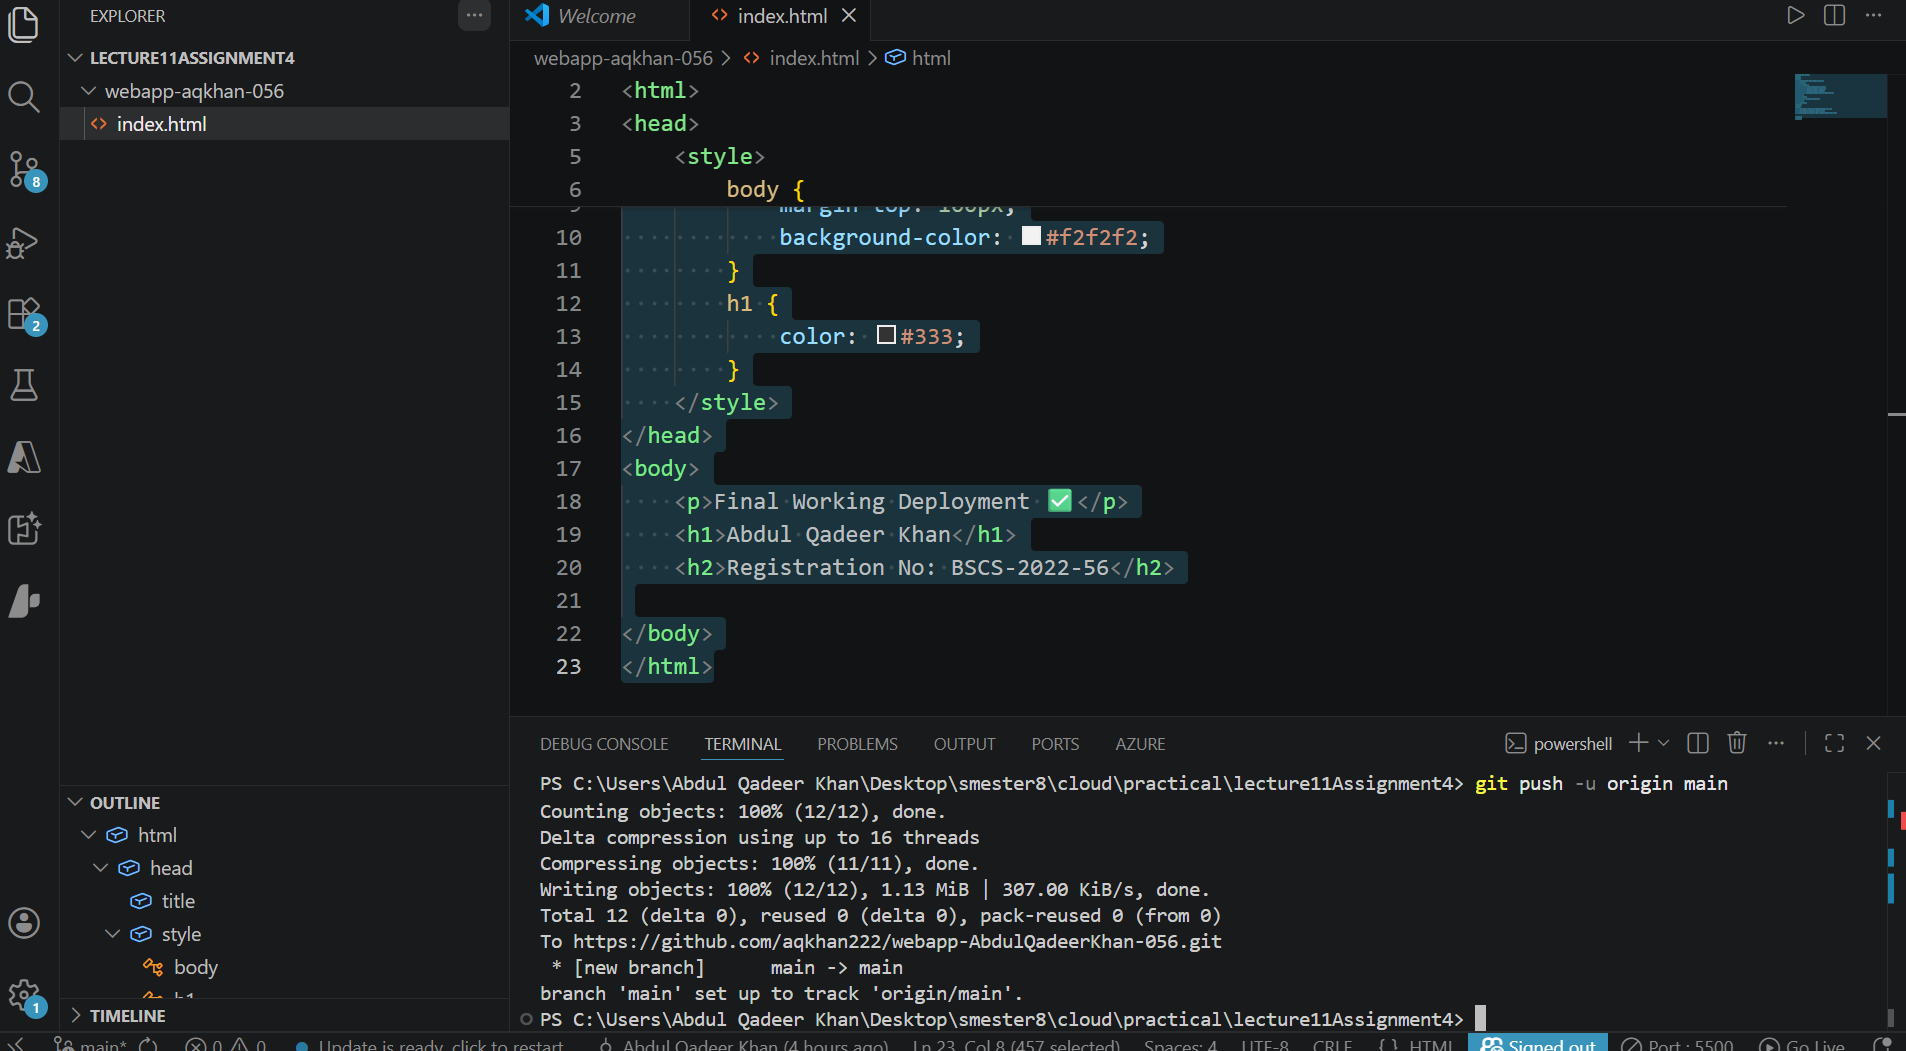
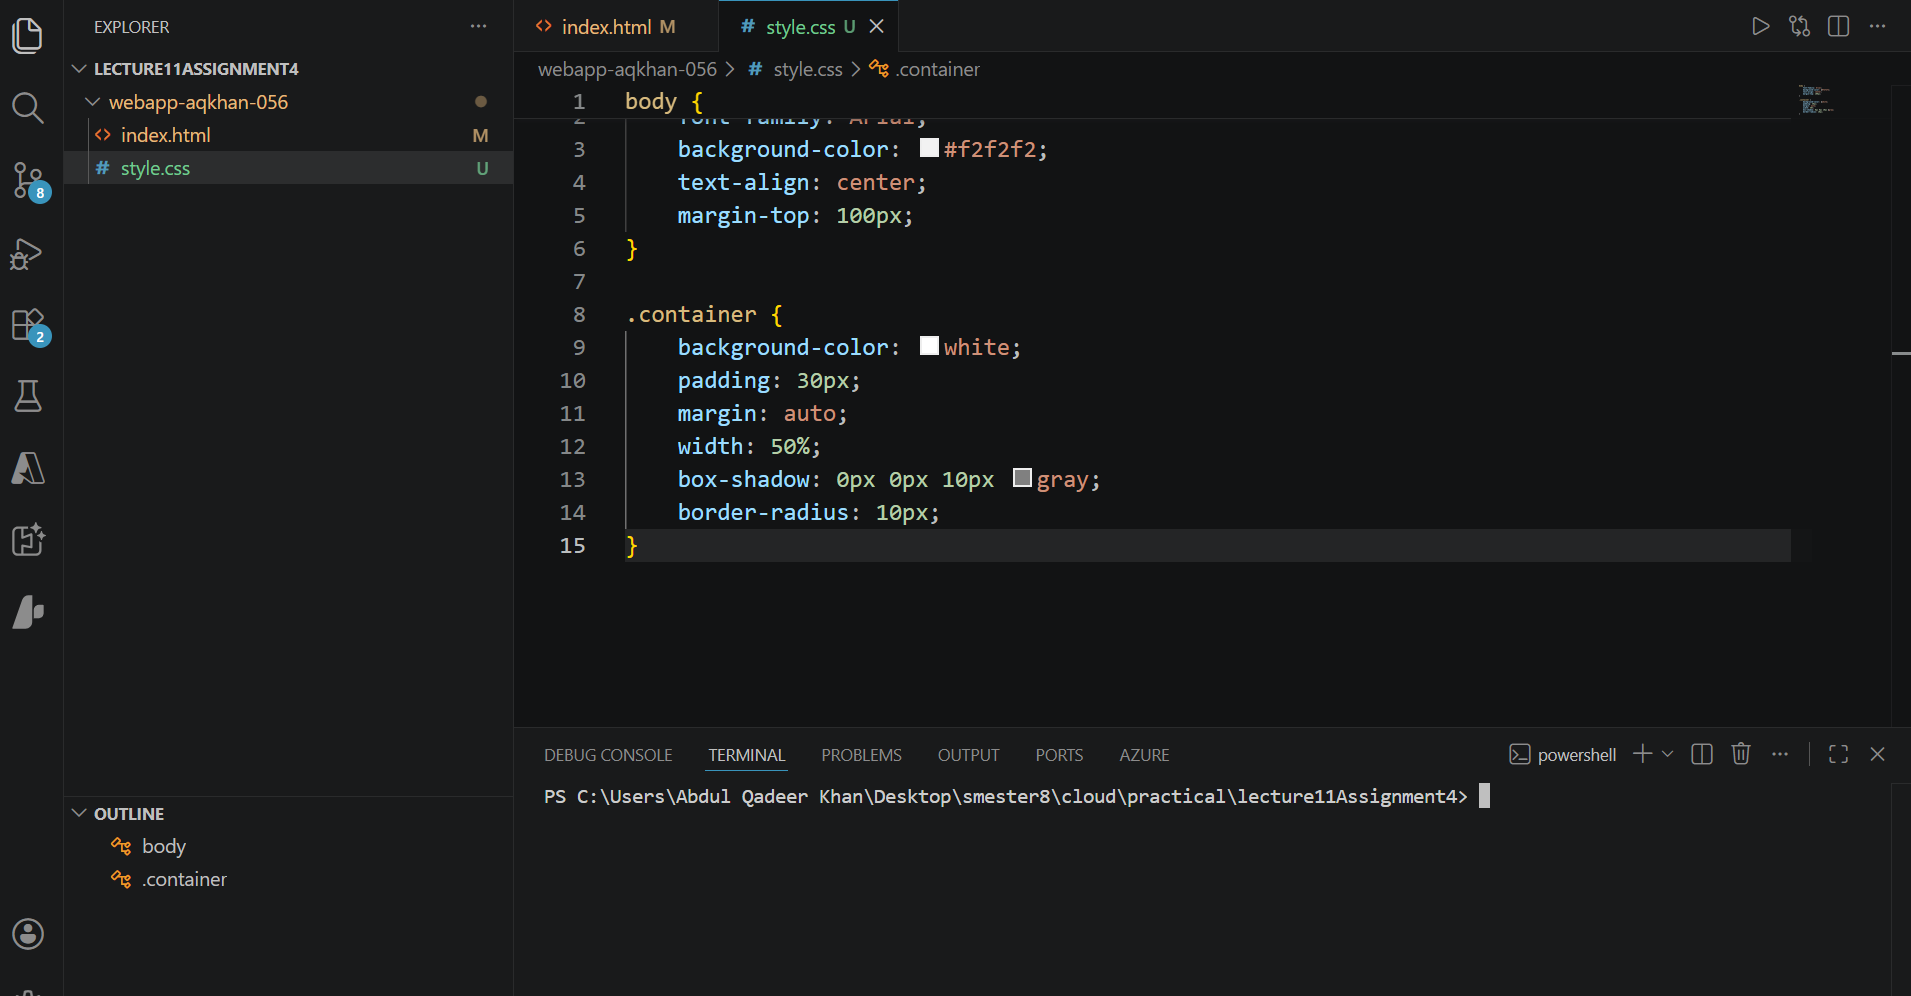
Initial commit

diff --git a/webapp-aqkhan-056/index.html b/webapp-aqkhan-056/index.html
@@ -1,10 +1,19 @@
 <!DOCTYPE html>
 <html>
 <head>
-    <title>AQKhan Web App</title>
+    <title>My Cloud Web App</title>
+    <link rel="stylesheet" href="style.css">
 </head>
 <body>
-    <h1>Hello AQKhan 🚀</h1>
-    <p>Your Azure deployment is working!</p>
+
+    <div class="container">
+        <h1>Welcome to My Cloud Web App</h1>
+
+        <h2>Name: YOUR NAME</h2>
+        <h3>Registration No: YOUR REG NO</h3>
+
+        <p>This web app is deployed using Azure CI/CD pipeline.</p>
+    </div>
+
 </body>
 </html>

diff --git a/webapp-aqkhan-056/style.css b/webapp-aqkhan-056/style.css
@@ -1,0 +1,15 @@
+body {
+    font-family: Arial;
+    background-color: #f2f2f2;
+    text-align: center;
+    margin-top: 100px;
+}
+
+.container {
+    background-color: white;
+    padding: 30px;
+    margin: auto;
+    width: 50%;
+    box-shadow: 0px 0px 10px gray;
+    border-radius: 10px;
+}
